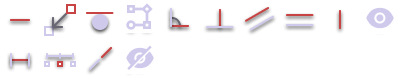
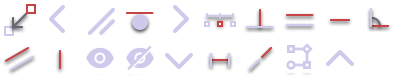
Sprite rendering in UiBuilder

diff --git a/rust-ui/src/render/renderer.rs b/rust-ui/src/render/renderer.rs
@@ -69,6 +69,23 @@ where
     pub scissor: bool,
 }
 
+impl<T> NodeContext<T>
+where
+    T: AppState + std::default::Default,
+{
+    pub fn set_listeners(&mut self, listeners: Listeners<T>) {
+        self.on_scroll = listeners.on_scroll;
+        self.on_mouse_exit = listeners.on_mouse_exit;
+        self.on_mouse_enter = listeners.on_mouse_enter;
+        self.on_left_mouse_up = listeners.on_left_mouse_up;
+        self.on_left_mouse_down = listeners.on_left_mouse_down;
+        self.on_right_mouse_up = listeners.on_right_mouse_up;
+        self.on_right_mouse_down = listeners.on_right_mouse_down;
+        self.on_middle_mouse_up = listeners.on_middle_mouse_up;
+        self.on_middle_mouse_down = listeners.on_middle_mouse_down;
+    }
+}
+
 #[derive(Default)]
 pub struct Listeners<T>
 where
@@ -632,16 +649,16 @@ where
         let root = b.div("rounded-8 bg-black opacity-40 w-full h-full p-8 flex-col", &[
             b.ui("flex-row", Listeners::default(), &[
                 b.text("grow", Text::new("Debug".into(), 18, COLOR_LIGHT)),
-                b.ui("", Listeners::default(), &[]), // TODO: Icons?
+                b.sprite("w-30 h-30", "Up", Listeners::default()),
             ]),
-            b.scrollable("", self.debug_scroll, Arc::new(|state| {
+            b.scrollable("grow", self.debug_scroll, Arc::new(|state| {
                 state.debug_scroll = (state.debug_scroll - state.scroll_delta.y.signum() * 0.2).clamp(0.0, 1.0);
             }), &entries),
-            b.div( "flex-row",
+            b.div("flex-row",
                 &[
-                b.text("grow", Text::new("Debug".into(), 18, COLOR_LIGHT)),
-                    b.ui( "", Listeners::default(), &[])
-                ],// TODO: Icons?
+                    b.div("grow", &[]),
+                    b.sprite("w-30 h-30", "Handle", Listeners::default()),
+                ],
             ),
         ]);
 
@@ -781,15 +798,7 @@ where
 
     pub fn ui(&self, style: &str, listeners: Listeners<T>, children: &[NodeId]) -> NodeId {
         let (style, mut context) = parse_style(style);
-        context.on_scroll = listeners.on_scroll;
-        context.on_mouse_exit = listeners.on_mouse_exit;
-        context.on_mouse_enter = listeners.on_mouse_enter;
-        context.on_left_mouse_up = listeners.on_left_mouse_up;
-        context.on_left_mouse_down = listeners.on_left_mouse_down;
-        context.on_right_mouse_up = listeners.on_right_mouse_up;
-        context.on_right_mouse_down = listeners.on_right_mouse_down;
-        context.on_middle_mouse_up = listeners.on_middle_mouse_up;
-        context.on_middle_mouse_down = listeners.on_middle_mouse_down;
+        context.set_listeners(listeners);
         let mut tree = self.tree.borrow_mut();
         let parent = tree.new_leaf_with_context(style, context).unwrap();
         for child in children {
@@ -861,6 +870,16 @@ where
             }, &[scroll_content]),
             self.div("w-8", &[scrollbar]),
         ])
+    }
+
+    pub fn sprite(&self, style: &str, sprite_key: &str, listeners: Listeners<T>) -> NodeId {
+        let (style, mut context) = parse_style(style);
+        context.flags |= flags::SPRITE;
+        context.sprite_key = sprite_key.into();
+        context.set_listeners(listeners);
+        let mut tree = self.tree.borrow_mut();
+        let parent = tree.new_leaf_with_context(style, context).unwrap();
+        return parent;
     }
 }
 

diff --git a/rust-ui/src/render/sprite.rs b/rust-ui/src/render/sprite.rs
@@ -1,9 +1,12 @@
-use std::{collections::HashMap, ffi::c_void, fs, hash::Hash, path::Path, str::FromStr};
+use std::{
+    collections::HashMap, ffi::c_void, fmt::Debug, fs, hash::Hash, path::Path, str::FromStr,
+};
 
 use gl::types::GLuint;
 
 use anyhow::{Result, anyhow};
 use image::ImageReader;
+use tracing::error;
 
 use crate::{
     geometry::{Rect, Vector},
@@ -24,7 +27,7 @@ pub struct SpriteInstance {
     atlas_size: [f32; 2],
 }
 
-pub trait SpriteKey: Hash + Clone + FromStr + PartialEq + Eq {}
+pub trait SpriteKey: Hash + Clone + FromStr + PartialEq + Eq + Debug {}
 
 #[derive(Debug)]
 pub struct SpriteAtlas<K>
@@ -149,7 +152,7 @@ impl<K: SpriteKey> SpriteRenderer<K> {
             0.0, 1.0, 0.0, 1.0,
             1.0, 0.0, 1.0, 0.0,
             0.0, 0.0, 0.0, 0.0,
-            
+
             0.0, 1.0, 0.0, 1.0,
             1.0, 1.0, 1.0, 1.0,
             1.0, 0.0, 1.0, 0.0
@@ -266,6 +269,12 @@ impl<K: SpriteKey> SpriteRenderer<K> {
                 gl::BindVertexArray(0);
                 gl::BindTexture(gl::TEXTURE_2D, 0);
             }
+        } else {
+            error!(
+                "Unknown sprite key: {:?}, available keys are {:?}",
+                key,
+                self.atlas.map.keys().collect::<Vec<_>>()
+            );
         }
     }
 }
